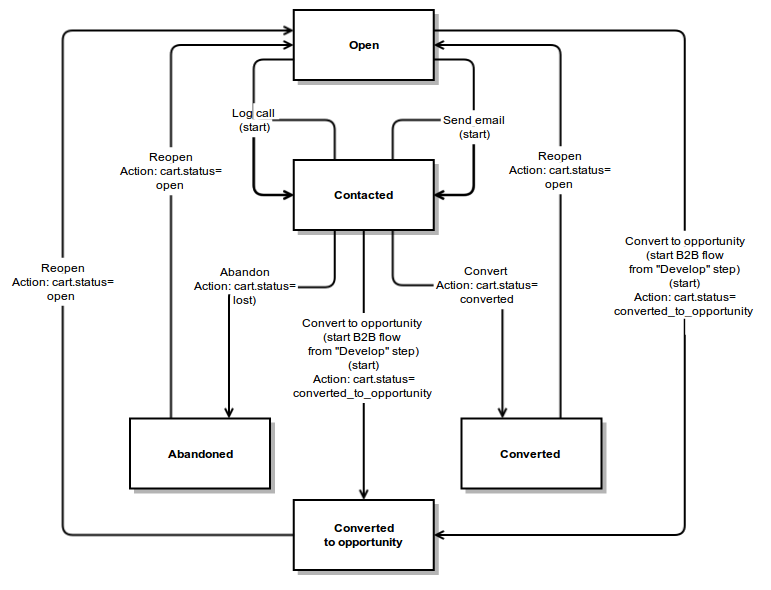
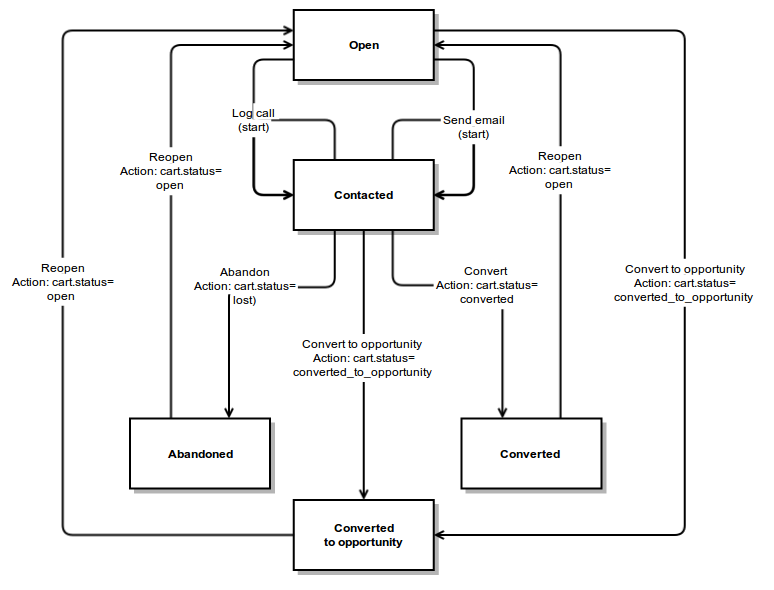
BAP-2473: Second iteration of B2C order flow  - updated documentation

diff --git a/src/OroCRM/Bundle/MagentoBundle/index.md b/src/OroCRM/Bundle/MagentoBundle/index.md
@@ -1,0 +1,8 @@
+MagentoBundle
+=============
+
+Bundle provides integration with Magento e-commerce solution.
+
+### Table of contents
+
+* [B2C Workflows](./Resources/doc/reference/workflows.md)
